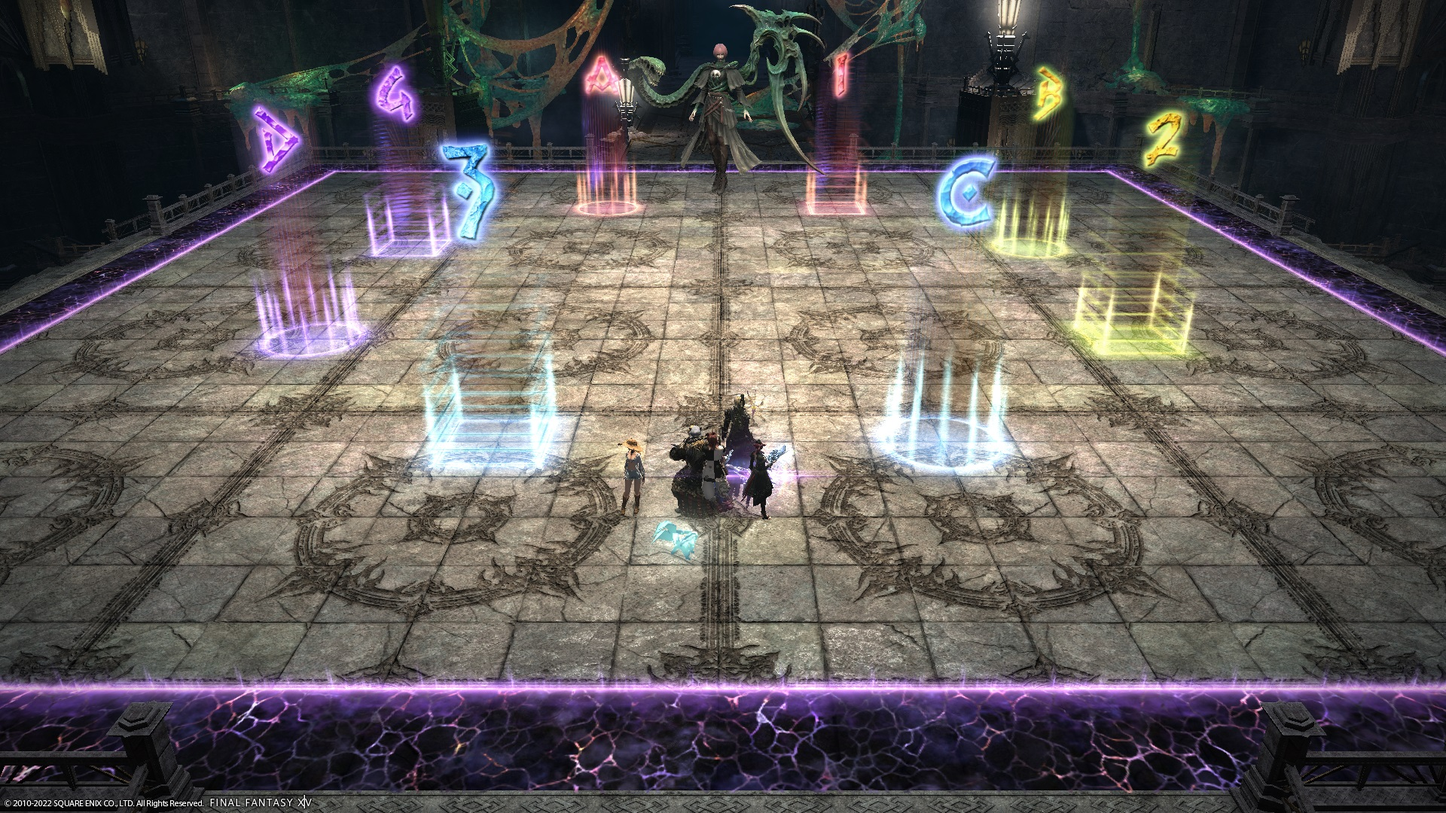
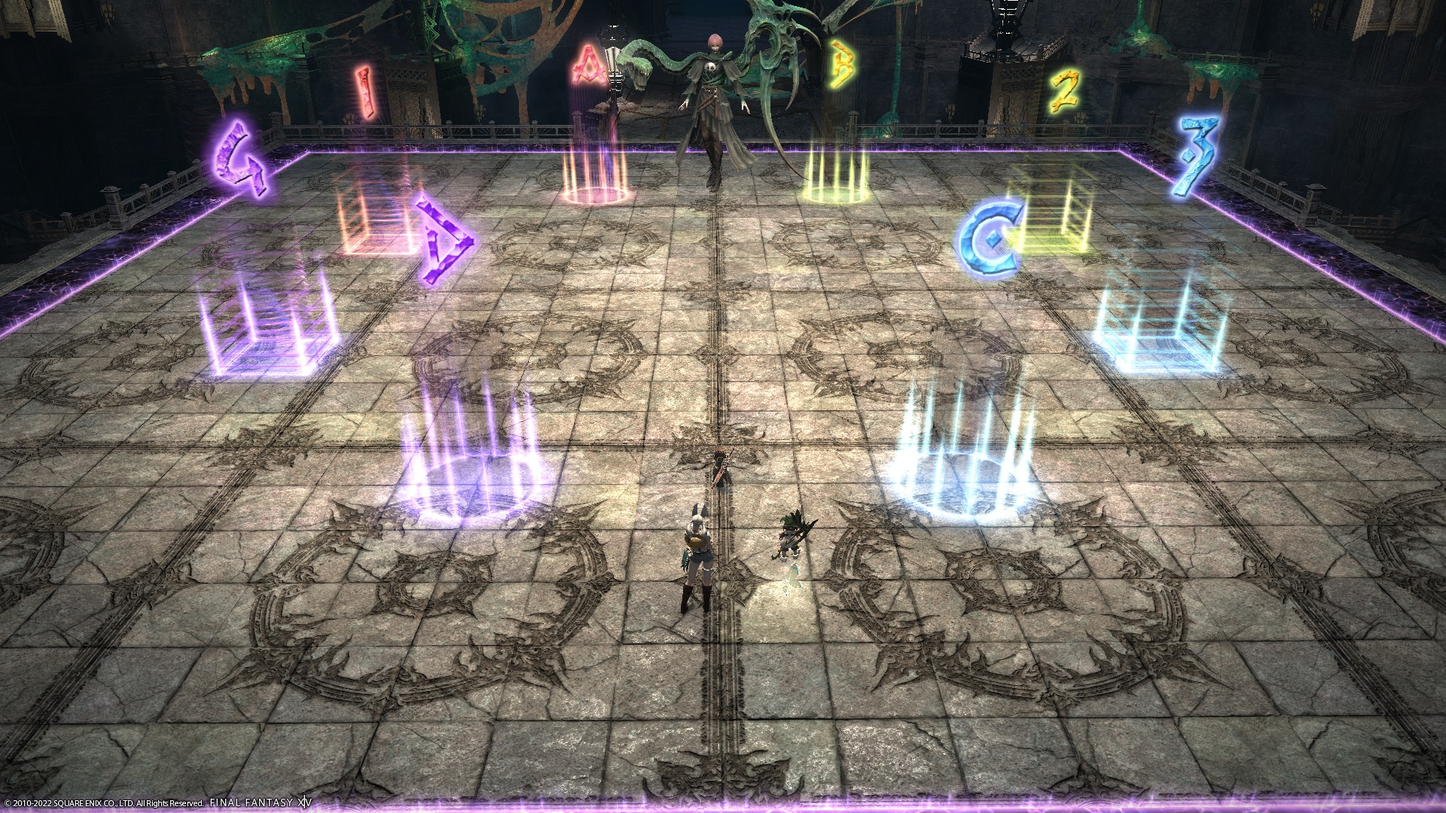
Update ZizieZip markers

diff --git a/6.0_endwalker/savage_raids/p6s/README.md b/6.0_endwalker/savage_raids/p6s/README.md
@@ -94,18 +94,18 @@ Players rotate moving "down" in the markers (i.e: 4→3→2→1→4 and D→C→
 
 ## Markers (ZizieZip)
 
-These markers are for ZizieZip *(I want to update these so that the same-coloured markers are at each intercardinal corner)*.
+These markers are for ZizieZip. The markers are colour-coded in each corner to make callouts easier.
 
-- `1` and `A`: Tanks
-- `2` and `B`: Healers
-- `3`, `C`, `4`, and `D`: DPS
+In addition, the "purple-ish" markers are on the west side, and the "green-ish" markers (blue + yellow) are on the east side to help remember which side the purple/green debuffs go.
+
+Letters are N/S, while numbers are E/W to also help with that grouping when dodging the fan AoEs.
 
 ![](images/markers_ziziezip.jpg)
 <details markdown=block>
 <summary>XIVLauncher WaymarkPresetPlugin positions</summary>
 
 ```json
-{"Name":"P6S (ZizieZip)","MapID":881,"A":{"X":95.0,"Y":0.0,"Z":88.333,"ID":0,"Active":true},"B":{"X":111.667,"Y":0.0,"Z":95.0,"ID":1,"Active":true},"C":{"X":105.0,"Y":0.0,"Z":111.667,"ID":2,"Active":true},"D":{"X":88.333,"Y":0.0,"Z":105.0,"ID":3,"Active":true},"One":{"X":105.0,"Y":0.0,"Z":88.333,"ID":4,"Active":true},"Two":{"X":111.667,"Y":0.0,"Z":105.0,"ID":5,"Active":true},"Three":{"X":95.0,"Y":0.0,"Z":111.667,"ID":6,"Active":true},"Four":{"X":88.333,"Y":0.0,"Z":95.0,"ID":7,"Active":true}}
+{"Name":"P6S (ZizieZip)","MapID":881,"A":{"X":95.0,"Y":0.0,"Z":88.333,"ID":0,"Active":true},"B":{"X":105.0,"Y":0.0,"Z":88.333,"ID":1,"Active":true},"C":{"X":105.0,"Y":0.0,"Z":111.666,"ID":2,"Active":true},"D":{"X":95.0,"Y":0.0,"Z":111.666,"ID":3,"Active":true},"One":{"X":88.333,"Y":0.0,"Z":95.0,"ID":4,"Active":true},"Two":{"X":111.666,"Y":0.0,"Z":95.0,"ID":5,"Active":true},"Three":{"X":111.666,"Y":0.0,"Z":105.0,"ID":6,"Active":true},"Four":{"X":88.333,"Y":0.0,"Z":105.0,"ID":7,"Active":true}}
 ```
 
 </details>
